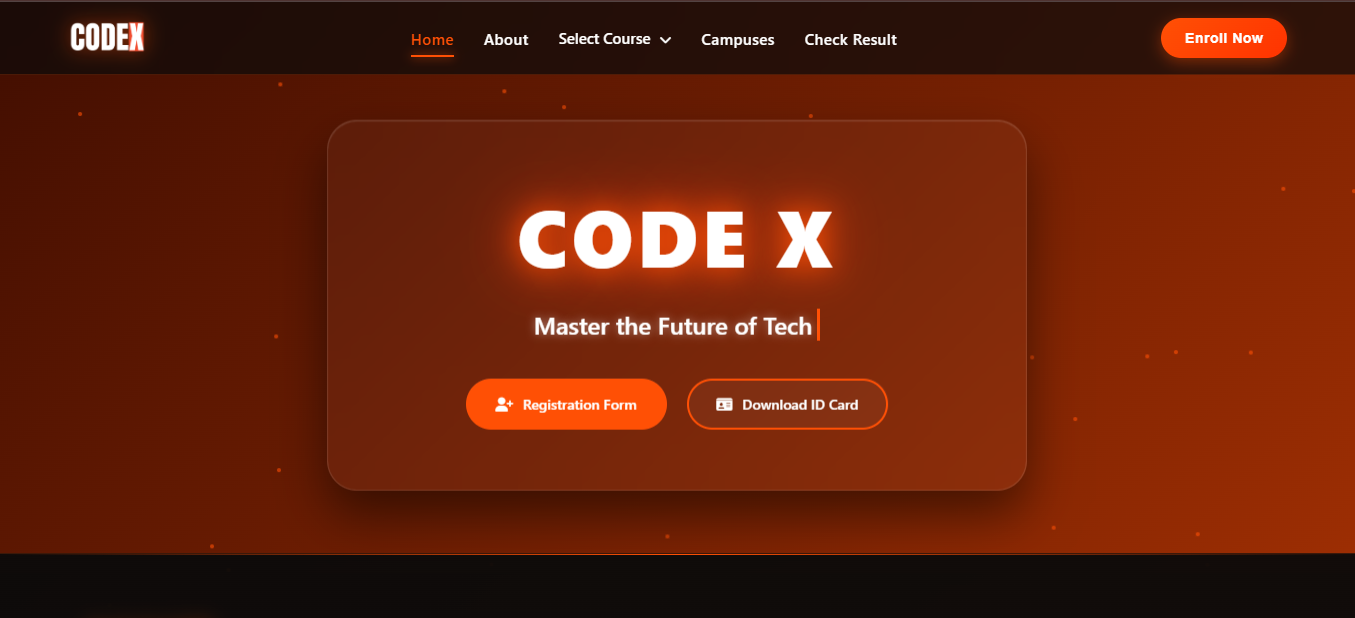
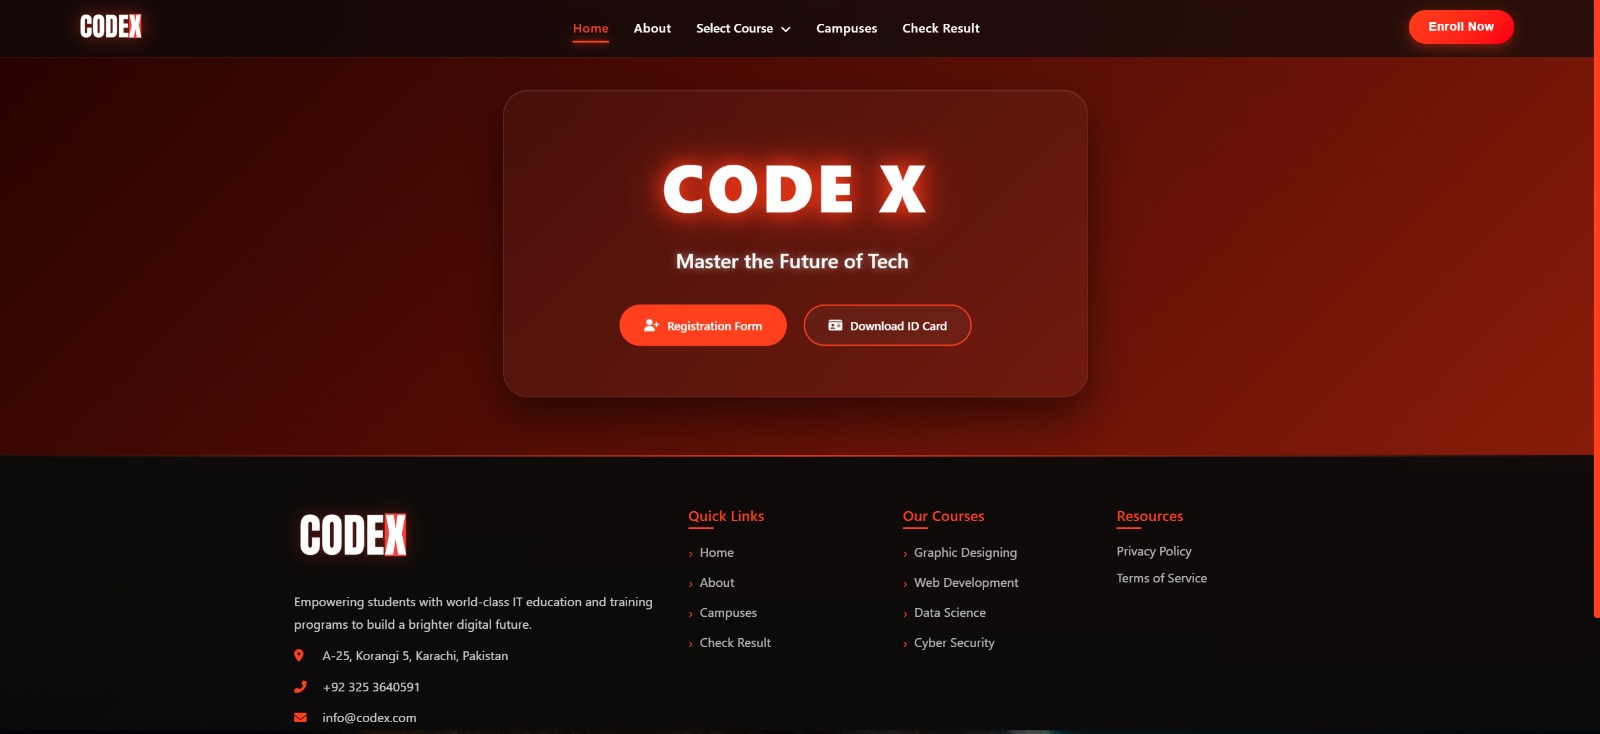
changes

diff --git a/index.html b/index.html
@@ -395,6 +395,20 @@
       <a href="projects.html" class="btn-outline reveal">See All Projects →</a>
     </div>
     <div class="projects-grid">
+      <a href="https://thrift-bazar-umer.vercel.app/" target="_blank" rel="noopener noreferrer" class="project-card reveal reveal-delay-1">
+        <div class="project-cover">
+          <img src="./images/codex.png" alt="Thrift Bazar E-Commerce">
+        </div>
+        <div class="project-body">
+          <div class="project-tag">Portal / Modern Design</div>
+          <h3 class="project-name">Code-x Web</h3>
+          <p class="project-desc">Code-x is a modern developed student portal with attractive design and user-friendly interface.</p>
+          <div class="project-footer">
+            <div class="project-num">02</div>
+            <div class="project-arrow"><i data-lucide="arrow-up-right" style="width:16px;height:16px;stroke:inherit;"></i></div>
+          </div>
+        </div>
+      </a>
       <a href="https://detailing-bros.vercel.app/" target="_blank" rel="noopener noreferrer" class="project-card reveal">
         <div class="project-cover">
           <img src="./images/project1.png" alt="Detailing Bros Paint Protection">
@@ -405,20 +419,6 @@
           <p class="project-desc">Complete website design for an automotive detailing and paint protection specialist, featuring a sleek, dark aesthetic.</p>
           <div class="project-footer">
             <div class="project-num">01</div>
-            <div class="project-arrow"><i data-lucide="arrow-up-right" style="width:16px;height:16px;stroke:inherit;"></i></div>
-          </div>
-        </div>
-      </a>
-      <a href="https://thrift-bazar-umer.vercel.app/" target="_blank" rel="noopener noreferrer" class="project-card reveal reveal-delay-1">
-        <div class="project-cover">
-          <img src="./images/project2.png" alt="Thrift Bazar E-Commerce">
-        </div>
-        <div class="project-body">
-          <div class="project-tag">E-Commerce / Thrift Store</div>
-          <h3 class="project-name">Thrift Bazar E-Commerce</h3>
-          <p class="project-desc">A modern, curated thrift store platform focused on bold aesthetics and high-conversion shopping experiences.</p>
-          <div class="project-footer">
-            <div class="project-num">02</div>
             <div class="project-arrow"><i data-lucide="arrow-up-right" style="width:16px;height:16px;stroke:inherit;"></i></div>
           </div>
         </div>
@@ -437,14 +437,14 @@
           </div>
         </div>
       </a>
-      <a href="https://onecallsolution-t.vercel.app/" target="_blank" rel="noopener noreferrer" class="project-card reveal">
+      <a href="https://tradeempire.vercel.app/" target="_blank" rel="noopener noreferrer" class="project-card reveal">
         <div class="project-cover">
-          <img src="./images/project4.png" alt="One Call Solution App">
+          <img src="./images/Trade empire.png" alt="Trade Empire">
         </div>
         <div class="project-body">
-          <div class="project-tag">Service Aggregator</div>
-          <h3 class="project-name">One Call Solution App</h3>
-          <p class="project-desc">Landing page for an on-demand multi-service platform connecting users with electricians, plumbers, and local professionals.</p>
+          <div class="project-tag">Digital University</div>
+          <h3 class="project-name">Trade Empire</h3>
+          <p class="project-desc">Trade Empire is a digital university platform offering comprehensive courses and resources for aspiring traders.</p>
           <div class="project-footer">
             <div class="project-num">04</div>
             <div class="project-arrow"><i data-lucide="arrow-up-right" style="width:16px;height:16px;stroke:inherit;"></i></div>
@@ -467,7 +467,7 @@
         <div class="owner-name">Mudassir Shaikh</div>
         <div class="owner-role">Founder & Creative Director</div>
         <p class="owner-bio">With a decade of experience in brand strategy and creative direction, Mudassir leads Aurelia's visual identity work and ensures every project exceeds expectations. His philosophy: beautiful design is never an accident.</p>
-        <a href="https://mudassir-shaikh-dev.vercel.app/" class="owner-visit-btn">Visit Site →</a>
+        <a href="https://mudassir-shaikh-dev.vercel.app/" class="owner-visit-btn" target="_blank">Visit Site →</a>
       </div>
       <div class="owner-card reveal reveal-delay-1">
         <div class="owner-line"></div>
@@ -477,7 +477,7 @@
         <div class="owner-name">Ahmed Qureshi</div>
         <div class="owner-role">Co-Founder & Digital Strategist</div>
         <p class="owner-bio">Ahmed drives Aurelia's growth marketing and digital strategy practice. With expertise in social media and paid media, he has helped over 50 brands scale their digital presence across Pakistan and the UK.</p>
-        <a href="https://ahmed-qureshi-three.vercel.app/" class="owner-visit-btn">Visit Site →</a>
+        <a href="https://ahmed-qureshi-three.vercel.app/" class="owner-visit-btn" target="_blank">Visit Site →</a>
       </div>
     </div>
   </section>
@@ -621,7 +621,7 @@
             <div class="form-group"><label>Last Name</label><input type="text" name="lastName" placeholder="Smith" required></div>
           </div>
           <div class="form-group"><label>Email Address</label><input type="email" name="email" placeholder="john@company.com" required></div>
-          <div class="form-group">
+          <div class="form-group">x
             <label>Service Interested In</label>
             <select name="service" required>
               <option>Social Media Marketing</option>

diff --git a/projects.html b/projects.html
@@ -212,6 +212,29 @@
           <div class="project-foot"><span class="project-num">01</span><div class="project-arrow"><i data-lucide="arrow-up-right"></i></div></div>
         </div>
       </a>
+      <!-- 2 - Trade Empire -->
+      <a href="https://tradeempire.vercel.app/" target="_blank" rel="noopener noreferrer" class="project-card reveal" data-category="ecommerce">
+        <div class="project-media">
+          <div class="browser-bar">
+            <div class="browser-dots"><span class="dot red"></span><span class="dot yellow"></span><span class="dot green"></span></div>
+            <div class="browser-url">https://tradeempire.vercel.app/</div>
+          </div>
+          <div class="project-img-wrap">
+            <img src="./images/Trade empire.png" alt="Trade Empire - Digital University Platform">
+            <div class="img-overlay"><span>View Project <i data-lucide="arrow-up-right"></i></span></div>
+          </div>
+        </div>
+        <div class="project-info">
+          <div>
+            <div class="project-category">Digital University</div>
+            <h3 class="project-title">Trade Empire</h3>
+            <p class="project-desc">Trade Empire is a digital university platform designed to provide high-quality education and training to students around the world.</p>
+            <div class="project-tags"><span class="tag">Development</span><span class="tag">University</span></div>
+          </div>
+          <div class="project-foot"><span class="project-num">02</span><div class="project-arrow"><i data-lucide="arrow-up-right"></i></div></div>
+        </div>
+      </a>
+
 
       <!-- 2 - Thrift Bazar -->
       <a href="https://thrift-bazar-umer.vercel.app/" target="_blank" rel="noopener noreferrer" class="project-card reveal" data-category="ecommerce">
